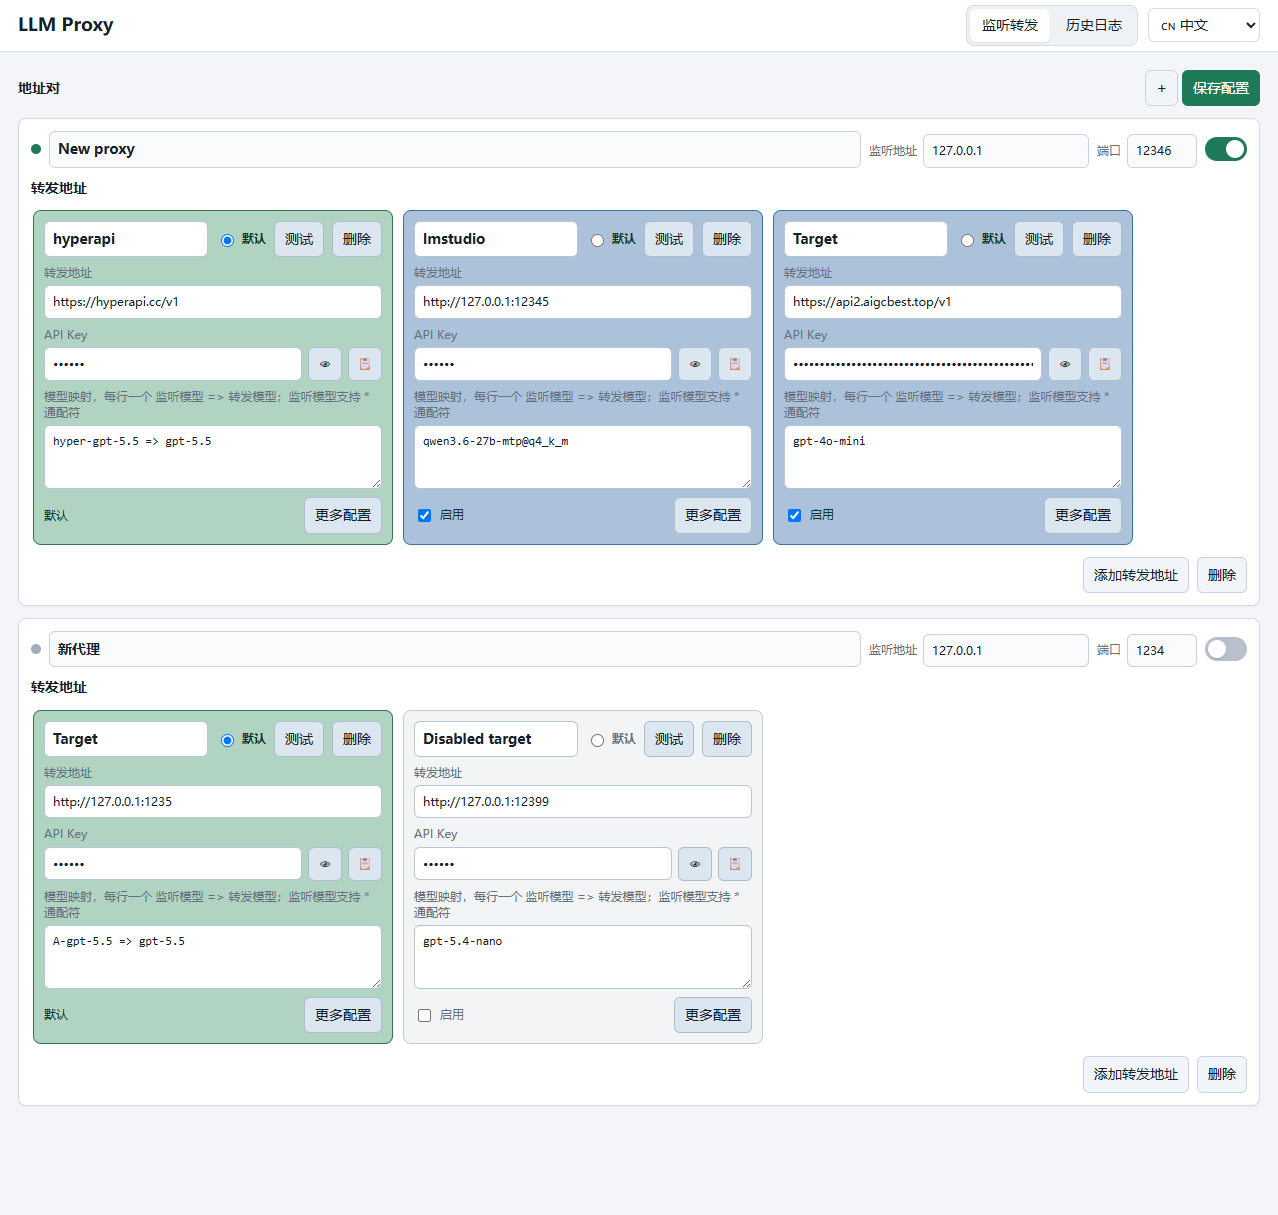
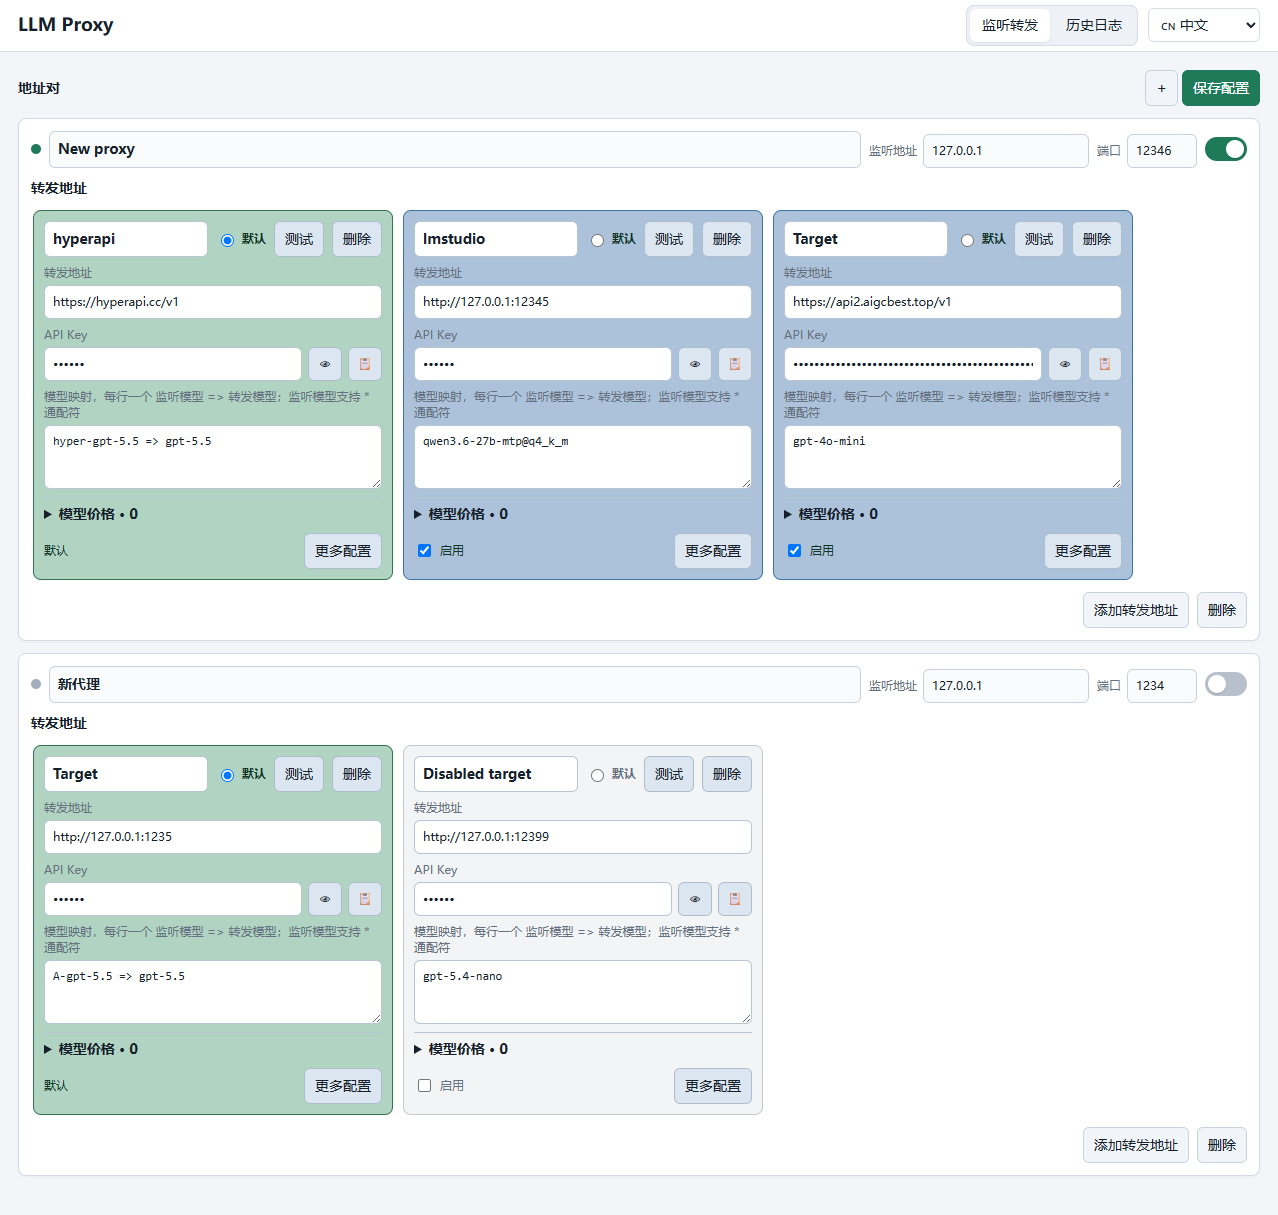
feat(pricing): [PRICE-09] edit target model prices

diff --git a/src/admin/static/app.js b/src/admin/static/app.js
@@ -66,6 +66,17 @@ const translations = {
     defaultTarget: "默认",
     targetEnabled: "启用",
     modelMappings: "模型映射，每行一个 监听模型 => 转发模型；监听模型支持 * 通配符",
+    modelPrices: "模型价格",
+    addModelPrice: "添加模型价格",
+    pricePattern: "模型名称 / 通配符",
+    normalInputPrice: "普通输入",
+    outputPrice: "输出",
+    cacheReadPrice: "缓存读取",
+    cacheWritePrice: "缓存写入",
+    priceUnit: "单位：元 / M token（100 万 token）",
+    noModelPrices: "尚未配置模型价格，请求费用将显示为未计价",
+    testPriceModel: "测试模型名",
+    priceNoMatch: "未命中价格规则",
     moreTargetOptions: "更多配置",
     lessTargetOptions: "收起配置",
     delete: "删除",
@@ -153,6 +164,17 @@ const translations = {
     checkFail: "Failed: no response was received",
     defaultTarget: "Default",
     targetEnabled: "Enabled",
+    modelPrices: "Model pricing",
+    addModelPrice: "Add model price",
+    pricePattern: "Model / wildcard",
+    normalInputPrice: "Input",
+    outputPrice: "Output",
+    cacheReadPrice: "Cache read",
+    cacheWritePrice: "Cache write",
+    priceUnit: "Unit: CNY / M tokens (1,000,000 tokens)",
+    noModelPrices: "No model prices configured; request cost will be unpriced",
+    testPriceModel: "Test model",
+    priceNoMatch: "No price rule matched",
     modelMappings:
       "Model mapping, one per line: listened model => upstream model; * is supported as a wildcard",
     moreTargetOptions: "More settings",
@@ -361,6 +383,7 @@ const newTarget = () => ({
   log_root: "logs",
   redact_logs: false,
   model_mappings: [],
+  model_prices: [],
   expanded: false,
 });
 const newPair = () => {
@@ -393,6 +416,37 @@ function mappingsText(mappings) {
     )
     .join("\n");
 }
+function modelPriceRuleHtml(target, index) {
+  const rule = (target.model_prices || [])[index] || {};
+  const fields = [
+    ["model_pattern", "pricePattern"],
+    ["input_per_million", "normalInputPrice"],
+    ["output_per_million", "outputPrice"],
+    ["cache_read_per_million", "cacheReadPrice"],
+    ["cache_write_per_million", "cacheWritePrice"],
+  ];
+  return `<div class="model-price-rule" data-price-index="${index}">${fields.map(([field, label]) => `<label><span>${escapeHtml(t(label))}</span><input data-price-field="${field}" inputmode="decimal" value="${escapeHtml(rule[field] ?? "")}"></label>`).join("")}<div class="price-actions"><button type="button" data-price-up ${index === 0 ? "disabled" : ""}>↑</button><button type="button" data-price-down ${index === (target.model_prices || []).length - 1 ? "disabled" : ""}>↓</button><button type="button" data-price-remove>${escapeHtml(t("delete"))}</button></div></div>`;
+}
+function localPriceMatch(target) {
+  const model = target.price_test_model || "";
+  const rules = target.model_prices || [];
+  if (!model) return "";
+  const exact = rules.findIndex(
+    (rule) => !rule.model_pattern?.includes("*") && rule.model_pattern === model,
+  );
+  const wildcard = rules.findIndex(
+    (rule) => rule.model_pattern?.includes("*") && wildcardPriceMatch(rule.model_pattern, model),
+  );
+  const index = exact >= 0 ? exact : wildcard;
+  return index < 0 ? t("priceNoMatch") : `#${index + 1}: ${rules[index].model_pattern}`;
+}
+function wildcardPriceMatch(pattern, model) {
+  const escaped = pattern
+    .split("*")
+    .map((part) => part.replace(/[\\^$.*+?()[\]{}|]/g, "\\$&"))
+    .join(".*");
+  return new RegExp(`^${escaped}$`).test(model);
+}
 function renderTarget(target, pair, pairIndex, targetIndex) {
   const expanded = Boolean(target.expanded);
   const isDefault = pair.default_target_id === target.id;
@@ -421,6 +475,13 @@ function renderTarget(target, pair, pairIndex, targetIndex) {
         </div>
       </label>
       <label><span>${escapeHtml(t("modelMappings"))}</span><textarea data-target-field="model_mappings" placeholder="*gpt-5.5* => gpt-5.5">${escapeHtml(mappingsText(target.model_mappings))}</textarea></label>
+      <details class="model-prices" ${target.prices_expanded ? "open" : ""}>
+        <summary>${escapeHtml(t("modelPrices"))} · ${(target.model_prices || []).length}</summary>
+        <p class="price-help">${escapeHtml(t("priceUnit"))}</p>
+        <div class="model-price-rules">${(target.model_prices || []).map((_, index) => modelPriceRuleHtml(target, index)).join("") || `<p class="price-empty">${escapeHtml(t("noModelPrices"))}</p>`}</div>
+        <button type="button" data-add-price>${escapeHtml(t("addModelPrice"))}</button>
+        <label class="price-test"><span>${escapeHtml(t("testPriceModel"))}</span><input data-price-test value="${escapeHtml(target.price_test_model || "")}"><output>${escapeHtml(localPriceMatch(target))}</output></label>
+      </details>
       <div class="target-controls">
         ${isDefault ? `<span class="target-enabled">${escapeHtml(t("defaultTarget"))}</span>` : `<label class="target-enabled"><input type="checkbox" data-target-enabled ${target.enabled !== false ? "checked" : ""}> <span>${escapeHtml(t("targetEnabled"))}</span></label>`}
         <button data-toggle-target-options>${escapeHtml(t(expanded ? "lessTargetOptions" : "moreTargetOptions"))}</button>
@@ -505,6 +566,15 @@ function collectPairs() {
         if (field === "inject_request_fields" && value === "") value = "";
         target[field] = value;
       });
+      target.model_prices = [...targetCard.querySelectorAll("[data-price-index]")].map((rule) => {
+        const value = {};
+        rule.querySelectorAll("[data-price-field]").forEach((input) => {
+          value[input.dataset.priceField] = input.value;
+        });
+        return value;
+      });
+      target.price_test_model = targetCard.querySelector("[data-price-test]")?.value || "";
+      target.prices_expanded = targetCard.querySelector(".model-prices")?.open || false;
       if (targetCard.querySelector("[data-default-target]")?.checked)
         pair.default_target_id = target.id;
       const enabledInput = targetCard.querySelector("[data-target-enabled]");
@@ -1216,6 +1286,35 @@ $("proxyGrid").addEventListener("click", (event) => {
   const card = event.target.closest(".proxy-card");
   if (!card) return;
   const pair = state.pairs[Number(card.dataset.index)];
+  if (
+    event.target.matches(
+      "[data-add-price], [data-price-remove], [data-price-up], [data-price-down]",
+    )
+  ) {
+    collectPairs();
+    const targetCard = event.target.closest(".target-card");
+    const target = pairTargets(pair)[Number(targetCard.dataset.targetIndex)];
+    const rules = target.model_prices || (target.model_prices = []);
+    const index = Number(event.target.closest("[data-price-index]")?.dataset.priceIndex);
+    if (event.target.matches("[data-add-price]")) {
+      rules.push({
+        model_pattern: "",
+        input_per_million: "",
+        output_per_million: "",
+        cache_read_per_million: "",
+        cache_write_per_million: "",
+      });
+    } else if (event.target.matches("[data-price-remove]")) {
+      rules.splice(index, 1);
+    } else if (event.target.matches("[data-price-up]") && index > 0) {
+      [rules[index - 1], rules[index]] = [rules[index], rules[index - 1]];
+    } else if (event.target.matches("[data-price-down]") && index < rules.length - 1) {
+      [rules[index], rules[index + 1]] = [rules[index + 1], rules[index]];
+    }
+    target.prices_expanded = true;
+    renderPairs();
+    return;
+  }
   if (event.target.matches("[data-add-target]")) {
     collectPairs();
     const target = newTarget();

diff --git a/src/admin/static/app.css b/src/admin/static/app.css
@@ -228,6 +228,63 @@ main {
 .target-card button:hover {
   background: #d2deea;
 }
+.model-prices {
+  border-top: 1px solid #b8c5d3;
+  padding-top: 6px;
+}
+.model-prices summary {
+  cursor: pointer;
+  font-weight: 600;
+}
+.price-help,
+.price-empty {
+  margin: 5px 0;
+  font-size: 12px;
+  color: #46586a;
+}
+.model-price-rule {
+  display: grid;
+  grid-template-columns: repeat(5, minmax(0, 1fr)) auto;
+  gap: 5px;
+  margin: 6px 0;
+  align-items: end;
+}
+.model-price-rule label,
+.price-test {
+  display: grid;
+  gap: 2px;
+  min-width: 0;
+  font-size: 12px;
+}
+.model-price-rule input {
+  min-width: 0;
+  width: 100%;
+}
+.price-actions {
+  display: flex;
+  gap: 2px;
+}
+.price-test {
+  grid-template-columns: auto minmax(8rem, 1fr) minmax(0, 1fr);
+  align-items: center;
+  margin-top: 7px;
+}
+.price-test output {
+  overflow: hidden;
+  text-overflow: ellipsis;
+  white-space: nowrap;
+}
+@media (max-width: 700px) {
+  .model-price-rule {
+    grid-template-columns: repeat(2, minmax(0, 1fr));
+  }
+  .price-actions {
+    grid-column: 1 / -1;
+  }
+  .price-test {
+    grid-template-columns: 1fr;
+  }
+}
 .target-head {
   display: flex;
   gap: 8px;

diff --git a/docs/model-token-pricing-todo.md b/docs/model-token-pricing-todo.md
@@ -1,6 +1,6 @@
 # 模型 token 定价与历史费用开发 TODO
 
-创建日期：2026-09-11。当前进度：8 / 14 项完成。
+创建日期：2026-09-11。当前进度：9 / 14 项完成。
 
 设计依据：[转发地址模型定价与历史费用设计](./model-token-pricing-design.md)。本清单用于后续开发、验收与逐项提交；遇到设计调整，应同步更新设计文档、本清单及测试，不能只改代码。
 
@@ -47,7 +47,7 @@
 | [x] | PRICE-06 | 数据库迁移与费用持久化 | PRICE-05 | 完成 |
 | [x] | PRICE-07 | task 总额与费用明细聚合 | PRICE-06 | 完成 |
 | [x] | PRICE-08 | 历史 API、schema 与导出 | PRICE-07 | 完成 |
-| [ ] | PRICE-09 | target 价格编辑 UI | PRICE-01、02、08 | 未开始 |
+| [x] | PRICE-09 | target 价格编辑 UI | PRICE-01、02、08 | 完成 |
 | [ ] | PRICE-10 | 费用格式化与两级列表 UI | PRICE-08、09 | 未开始 |
 | [ ] | PRICE-11 | 请求与 task 费用明细 UI | PRICE-10 | 未开始 |
 | [ ] | PRICE-12 | 自动刷新、异步竞态与任务生命周期 | PRICE-11 | 未开始 |
@@ -393,6 +393,22 @@ UI 基线：不涉及。
 UI 基线：不涉及。
 设计偏差与迁移影响：无。
 提交定位：`feat(pricing): [PRICE-08] expose pricing history API`。
+补充修复提交：无。
+遗留问题：无。
+
+### PRICE-09
+
+任务 ID：PRICE-09
+状态：完成
+完成日期：2026-09-11
+实现内容与实际文件：target 卡片在模型映射下新增折叠模型价格区；支持添加、删除、上下重排、四项单价输入，以及未保存规则的本地精确/通配测试。规则仍随现有配置保存统一生效。
+测试映射：P09-01～P09-04 → `test-node/ui/admin-ui.test.ts` 管理页面浏览器回归、`test-node/admin/static-source.test.ts` 静态资源回归及共享 matcher 单元测试。
+验证命令与结果：`npm run typecheck` 通过；`npx vitest run test-node/admin/static-source.test.ts test-node/ui/admin-ui.test.ts` 通过（2 个测试文件、42 个测试）；`npm run regen:ui-baselines` 通过。
+验收结论：通过；规则按 target 隔离，测试框不调用上游或保存配置，窄屏规则布局自动改为两列。
+文档更新：TODO 执行记录、UI 基线哈希。
+UI 基线：`npm run regen:ui-baselines`；已更新 `doc/ui_*.png` 与 `docs/refactoring/ui-visual-baseline.md`。
+设计偏差与迁移影响：无。
+提交定位：`feat(pricing): [PRICE-09] edit target model prices`。
 补充修复提交：无。
 遗留问题：无。
 

diff --git a/docs/refactoring/ui-visual-baseline.md b/docs/refactoring/ui-visual-baseline.md
@@ -10,8 +10,8 @@
 
 | 页面 | 语言 | 文件 | 图片尺寸 | SHA-256 |
 | --- | --- | --- | --- | --- |
[6 lines of base64/hex data omitted]
 
